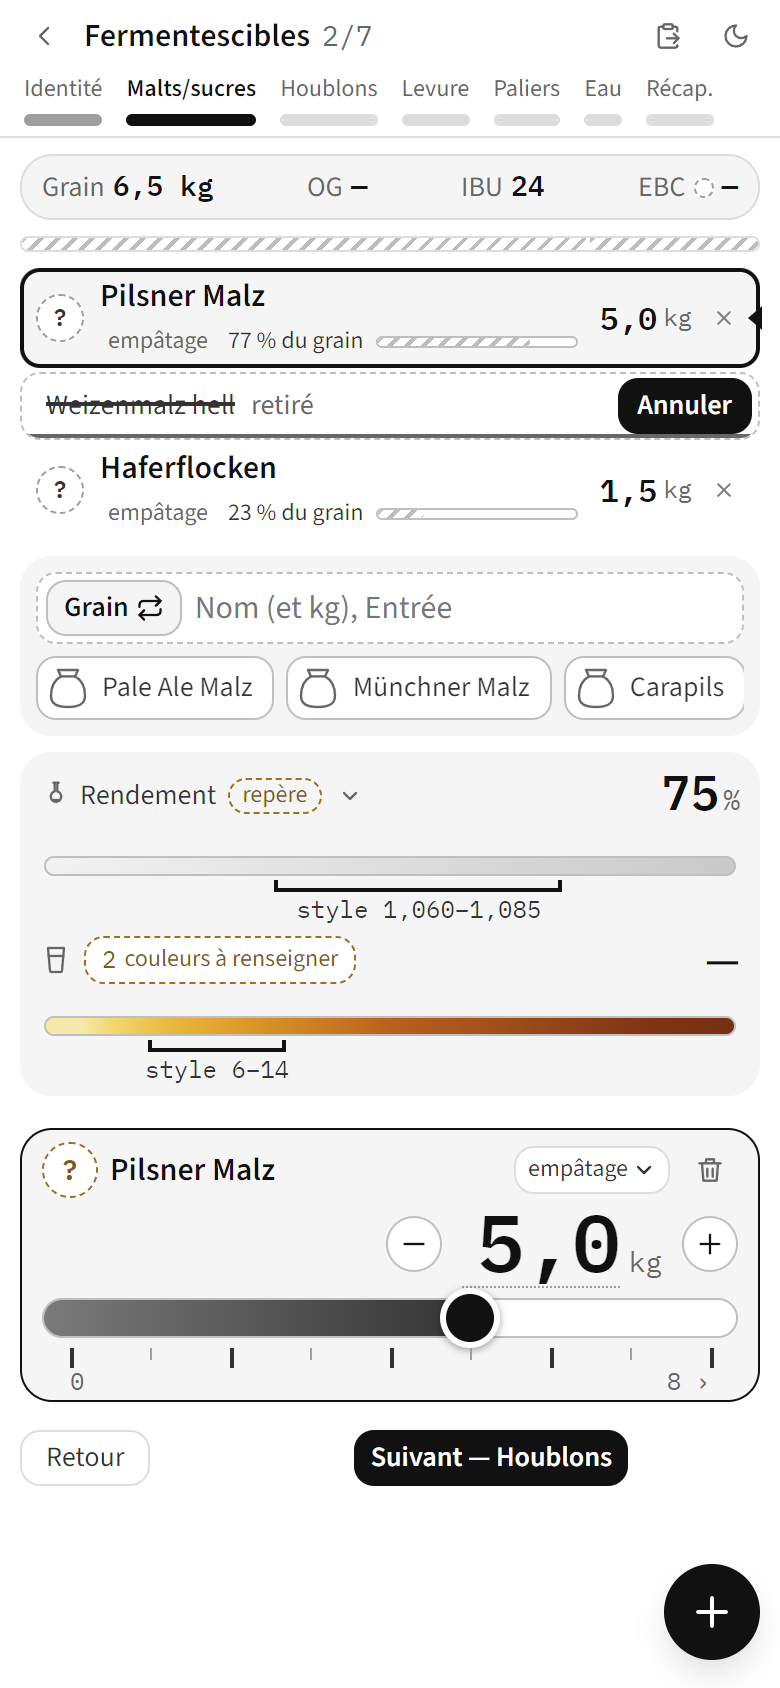
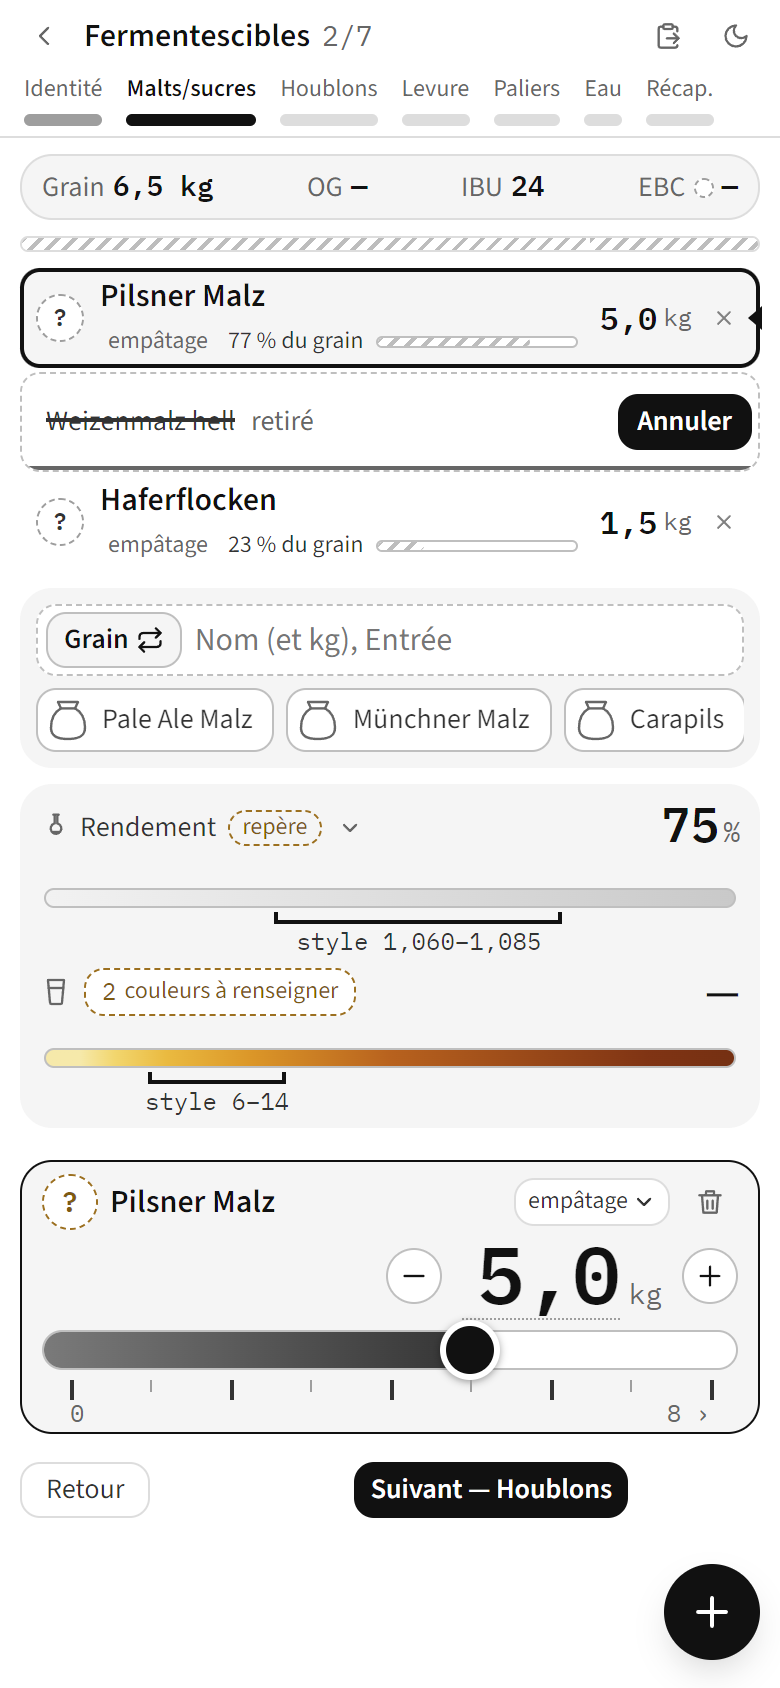
Malts/sucres : ligne retirée à la hauteur d'une ligne (t4 n° 2, plus de saut), page de la passe 4 publiée (r4c et r4d, plateau visible ou replié, coûts écrits)

diff --git a/work/missions/2026-10-31-ecran-fermentescibles/choix-v3/index.html b/work/missions/2026-10-31-ecran-fermentescibles/choix-v3/index.html
@@ -1,0 +1,143 @@
+<title>Malts/sucres · passe 4 · 31.10</title>
+<meta name="claude:viewport-fit-sides" content="cover">
+<style>
+/* La passe 4 de Malts/sucres : r4d, sa balance r4c avec les gestes sur la ligne. Une rangée par question, le nom à gauche ; la référence d'abord,
+   puis les vignettes serrées ; chaque vignette s'ouvre en grand au toucher (PUBLIER.md, D126). Polices système seules. */
+:root {
+  --fond: #f4f6f1;
+  --carte: #ffffff;
+  --encre: #1c2019;
+  --discret: #5a6155;
+  --trait: #dde2d6;
+  --houblon: #4a7426;
+  --choisir: #2d5f8a;
+  --reserve: #8a6a10;
+}
+@media (prefers-color-scheme: dark) {
+  :root:not([data-theme="light"]) {
+    --fond: #151812; --carte: #1f241b; --encre: #e9eee4; --discret: #a7ae9f; --trait: #333a2d; --houblon: #8cc062;
+    --choisir: #8ab8e0; --reserve: #e3c26a; color-scheme: dark;
+  }
+}
+:root[data-theme="dark"] {
+  --fond: #151812; --carte: #1f241b; --encre: #e9eee4; --discret: #a7ae9f; --trait: #333a2d; --houblon: #8cc062;
+  --choisir: #8ab8e0; --reserve: #e3c26a; color-scheme: dark;
+}
+* { box-sizing: border-box; }
+body {
+  background: var(--fond); color: var(--encre); font: 16px/1.45 "Segoe UI", system-ui, sans-serif; margin: 0;
+  padding-block: 16px 64px;
+  padding-left: max(16px, env(safe-area-inset-left, 0px)); padding-right: max(16px, env(safe-area-inset-right, 0px));
+}
+.page { max-width: 1320px; margin: 0 auto; display: grid; gap: 22px; }
+h1, h2 { margin: 0; line-height: 1.15; text-wrap: balance; }
+h1 { font-size: 1.7rem; font-weight: 800; }
+h2 { font-size: 1.1rem; font-weight: 800; }
+p { margin: 0; max-width: 70ch; }
+a { color: var(--houblon); }
+button:focus-visible { outline: 3px solid var(--houblon); outline-offset: 2px; }
+header { display: grid; gap: 10px; }
+.sur-titre { font-size: 0.875rem; letter-spacing: 0.06em; text-transform: uppercase; color: var(--discret); }
+#a-choisir { border-left: 4px solid var(--houblon); padding: 12px 14px; background: var(--carte); border-radius: 0 10px 10px 0; display: grid; gap: 6px; }
+#a-choisir p:first-child { font-size: 1.05rem; font-weight: 700; }
+.rangee { display: grid; gap: 10px; padding-top: 16px; border-top: 1px solid var(--trait); }
+.tete { display: grid; gap: 4px; align-content: start; }
+.tete p { font-size: 0.875rem; color: var(--discret); }
+.planche { display: grid; grid-template-columns: repeat(3, minmax(0, 1fr)); gap: 14px 8px; align-items: start; min-width: 0; }
+.vue { margin: 0; display: grid; gap: 5px; align-content: start; min-width: 0; }
+.ecran { display: block; width: 100%; padding: 0; border: 1px solid var(--trait); border-radius: 10px; overflow: hidden; background: var(--carte); cursor: zoom-in; }
+.ecran img { display: block; width: 100%; height: auto; }
+.ref .ecran { border: 3px solid var(--houblon); }
+figcaption { font-size: 0.875rem; line-height: 1.35; display: grid; gap: 2px; }
+figcaption b { font-weight: 800; }
+figcaption i { color: var(--discret); }
+.pastille { display: inline-flex; align-items: center; gap: 5px; font-weight: 700; }
+.pastille::before { content: ""; width: 10px; height: 10px; border-radius: 50%; background: currentColor; flex-shrink: 0; }
+.p-ref { color: var(--houblon); }
+.p-choisir { color: var(--choisir); }
+.p-reserve { color: var(--reserve); }
+.large { grid-column: span 2; }
+@media (min-width: 760px) {
+  .rangee { grid-template-columns: 200px minmax(0, 1fr); gap: 16px; }
+  .planche { grid-template-columns: repeat(6, minmax(0, 1fr)); }
+}
+dialog { border: 0; padding: 0; background: #0e100c; color: #eef2ea; width: min(96vw, 1100px); max-height: 94vh; border-radius: 12px; }
+dialog::backdrop { background: rgb(0 0 0 / 80%); }
+dialog .haut { display: flex; justify-content: space-between; align-items: center; gap: 8px; padding: 10px 12px; }
+dialog .titre { font-size: 0.875rem; font-weight: 700; margin: 0; }
+dialog button { font: 700 0.875rem system-ui, sans-serif; border: 0; border-radius: 999px; padding: 8px 14px; background: #eef2ea; color: #1c2019; cursor: pointer; }
+dialog img { display: block; width: 100%; height: auto; max-height: 82vh; object-fit: contain; background: #fff; }
+</style>
+
+<div class="page">
+  <header>
+    <p class="sur-titre">L'Affinée · création de recette · Malts/sucres 2/7</p>
+    <h1>Malts/sucres · passe 4 · 31.10</h1>
+    <div id="a-choisir">
+      <p>Ta balance r4c, avec tes gestes sur la ligne : la masse se tape sur la ligne, la croix retire, le champ ajoute, le nom ouvre le détail.</p>
+      <p>Dis si ça te va. Puis choisis le plateau : toujours visible, ou replié jusqu'au toucher d'un nom.</p>
+      <p>Le reste de r4c ne change pas : plateau clair, sucre en ligne du ticket, teinte en dégradé, OG en piste. Touche une capture pour la voir en grand.</p>
+    </div>
+    <p class="sur-titre">Version d'avant : <a href="https://claude.ai/artifact/2bBQ7dcRjwnyGfbUgf7vUG">la passe 3 (r4c, z2c, u2c)</a></p>
+  </header>
+
+  <section class="rangee" aria-labelledby="t-plateau">
+    <div class="tete"><h2 id="t-plateau">Le plateau</h2><p>Ce que tu choisis. Ta r4c d'abord, puis les deux façons de r4d.</p></div>
+    <div class="planche">
+      <figure class="vue ref" data-vignette><button class="ecran" type="button" data-agrandir data-src="img/r4c-repos.png" data-titre="Référence · r4c, ton choix, au repos"><img src="img/r4c-repos.png" alt="r4c au repos"></button><figcaption><span class="pastille p-ref">ton choix</span><span><b>La balance</b> · r4c</span><i>Changer passe par le plateau.</i></figcaption></figure>
+      <figure class="vue" data-vignette><button class="ecran" type="button" data-agrandir data-src="img/r4d-repos.png" data-titre="r4d · plateau visible, au repos"><img src="img/r4d-repos.png" alt="r4d, plateau visible"></button><figcaption><span class="pastille p-choisir">à choisir</span><span><b>Plateau visible</b> · r4d</span><i>Sous la liste, sur l'ingrédient choisi.</i></figcaption></figure>
+      <figure class="vue" data-vignette><button class="ecran" type="button" data-agrandir data-src="img/r4d-replie.png" data-titre="r4d · plateau replié, au repos"><img src="img/r4d-replie.png" alt="r4d, plateau replié"></button><figcaption><span class="pastille p-choisir">à choisir</span><span><b>Plateau replié</b> · r4d</span><i>Rien sous la liste au repos.</i><i>Coût : à 3 lignes, du vide sous le pied.</i></figcaption></figure>
+      <figure class="vue" data-vignette><button class="ecran" type="button" data-agrandir data-src="img/r4d-detail.png" data-titre="r4d · plateau replié, nom touché : le détail s'ouvre"><img src="img/r4d-detail.png" alt="r4d, détail ouvert"></button><figcaption><span><b>Replié, nom touché</b></span><i>Le détail s'ouvre, × le referme.</i><i>Coût : il s'ouvre en bas, loin de la ligne.</i></figcaption></figure>
+    </div>
+  </section>
+
+  <section class="rangee" aria-labelledby="t-masse">
+    <div class="tete"><h2 id="t-masse">Modifier une masse</h2><p>Un toucher sur le chiffre, tu tapes, Entrée. Échap rend la valeur d'avant.</p></div>
+    <div class="planche">
+      <figure class="vue" data-vignette><button class="ecran" type="button" data-agrandir data-src="img/r4d-repos.png" data-titre="Masse · avant : Weizenmalz hell à 1,5 kg"><img src="img/r4d-repos.png" alt="Avant"></button><figcaption><span><b>Avant</b></span><i>Weizenmalz hell, 1,5 kg.</i></figcaption></figure>
+      <figure class="vue" data-vignette><button class="ecran" type="button" data-agrandir data-src="img/r4d-masse-pendant.png" data-titre="Masse · pendant : « 2,5 » tapé sur la ligne"><img src="img/r4d-masse-pendant.png" alt="Pendant"></button><figcaption><span><b>Pendant</b></span><i>Le total et les parts suivent.</i></figcaption></figure>
+      <figure class="vue" data-vignette><button class="ecran" type="button" data-agrandir data-src="img/r4d-masse-apres.png" data-titre="Masse · après Entrée : 2,5 kg"><img src="img/r4d-masse-apres.png" alt="Après"></button><figcaption><span><b>Après</b></span><i>2,5 kg, grain 9,0 kg.</i></figcaption></figure>
+    </div>
+  </section>
+
+  <section class="rangee" aria-labelledby="t-retrait">
+    <div class="tete"><h2 id="t-retrait">Retirer, ajouter</h2><p>La croix retire sans question ; « Annuler » reste 6 secondes.</p></div>
+    <div class="planche">
+      <figure class="vue" data-vignette><button class="ecran" type="button" data-agrandir data-src="img/r4d-retrait-apres.png" data-titre="Retrait · Weizenmalz hell retiré, Annuler à sa place"><img src="img/r4d-retrait-apres.png" alt="Retrait"></button><figcaption><span><b>Retiré</b></span><i>« Annuler » le rend à sa place.</i></figcaption></figure>
+      <figure class="vue" data-vignette><button class="ecran" type="button" data-agrandir data-src="img/r4d-ajout-apres.png" data-titre="Ajout · « Cara 0,3 » puis « Munich » : le curseur dans sa masse"><img src="img/r4d-ajout-apres.png" alt="Ajout"></button><figcaption><span><b>Ajouté</b></span><i>« Cara 0,3 », puis « Munich » : curseur dans sa masse.</i></figcaption></figure>
+    </div>
+  </section>
+
+  <section class="rangee" aria-labelledby="t-ordi">
+    <div class="tete"><h2 id="t-ordi">Ordinateur</h2><p>1280 px. Tab passe d'une masse à la suivante.</p></div>
+    <div class="planche">
+      <figure class="vue ref large" data-vignette><button class="ecran" type="button" data-agrandir data-src="img/r4c-1280.png" data-titre="Référence · r4c à 1280 px"><img src="img/r4c-1280.png" alt="r4c à 1280 px"></button><figcaption><span class="pastille p-ref">ton choix</span><span><b>La balance</b> · r4c</span></figcaption></figure>
+      <figure class="vue large" data-vignette><button class="ecran" type="button" data-agrandir data-src="img/r4d-1280.png" data-titre="r4d à 1280 px"><img src="img/r4d-1280.png" alt="r4d à 1280 px"></button><figcaption><span><b>Gestes sur la ligne</b> · r4d</span></figcaption></figure>
+    </div>
+  </section>
+</div>
+<dialog id="grand" aria-label="Capture en grand">
+  <div class="haut">
+    <p class="titre" id="grand-titre"></p>
+    <button type="button" class="fermer">Fermer</button>
+  </div>
+  <img id="grand-img" alt="">
+</dialog>
+
+<script>
+(function () {
+  var dlg = document.getElementById('grand');
+  var img = document.getElementById('grand-img');
+  var titre = document.getElementById('grand-titre');
+  document.querySelectorAll('[data-agrandir]').forEach(function (b) {
+    b.addEventListener('click', function () {
+      img.setAttribute('src', b.getAttribute('data-src'));
+      img.setAttribute('alt', b.getAttribute('data-titre'));
+      titre.textContent = b.getAttribute('data-titre');
+      dlg.showModal();
+    });
+  });
+  dlg.querySelector('.fermer').addEventListener('click', function () { dlg.close(); });
+  dlg.addEventListener('click', function (e) { if (e.target === dlg) dlg.close(); });
+})();
+</script>

diff --git a/work/missions/2026-10-31-ecran-fermentescibles/v3/r4d/etat.html b/work/missions/2026-10-31-ecran-fermentescibles/v3/r4d/etat.html
@@ -97,8 +97,9 @@ body:not(.r4b-ample) .r4b-tag,body:not(.r4b-ample) .r4b-mo{line-height:16px}
 .r4d-ret:hover{color:var(--t0);background:var(--haut)}
 .r4d-ret:active{transform:scale(.88)}
 /* Le retrait laisse sa place 6 s : le nom barré, « Annuler » sous le doigt, là où était le ×. */
-.r4d-ote{position:relative;display:flex;align-items:center;gap:8px;min-height:34px;margin-top:2px;padding:0 3px 0 12px;border:1px dashed var(--bordm);border-radius:10px;font-size:14px;color:var(--t2);overflow:hidden;list-style:none}
+.r4d-ote{position:relative;display:flex;align-items:center;gap:8px;min-height:50px;margin-top:2px;padding:0 3px 0 12px;border:1px dashed var(--bordm);border-radius:10px;font-size:14px;color:var(--t2);overflow:hidden;list-style:none}
 .r4d-ote s{color:var(--t1);text-decoration-thickness:1.5px;white-space:nowrap;flex-shrink:0}
+body:not(.r4b-ample) .r4d-ote{min-height:40px}
 .r4d-ann{margin-left:auto;height:28px;padding:0 10px;border-radius:10px;background:var(--t0);color:#fff!important;font-size:14px;font-weight:600;flex-shrink:0}
 .r4d-ann:active{transform:scale(.96)}
 .r4d-file{position:absolute;left:0;bottom:0;width:100%;height:2px;background:var(--t2);transform-origin:left;animation:r4d-file 6s linear forwards}

diff --git a/work/missions/2026-10-31-ecran-fermentescibles/MISSION.md b/work/missions/2026-10-31-ecran-fermentescibles/MISSION.md
@@ -43,6 +43,7 @@ Ses mots vont mot pour mot dans SPEC-BRASSEUR.md, une plainte va dans DEFAUTS-RE
 |---|---|---|---|
 | Malts/sucres · panel v0 (12 concepts) | 31.10 v1 | https://claude.ai/artifact/Hn6WHBqAAEzV7UuJj9qCoh | `work/missions/2026-10-31-ecran-fermentescibles/panel-v0.html` |
 | Malts/sucres · passe 3 (r4c, z2c, u2c) et ses axes | 31.10 v1 | https://claude.ai/artifact/2bBQ7dcRjwnyGfbUgf7vUG | `work/missions/2026-10-31-ecran-fermentescibles/choix-v2/index.html` |
+| Malts/sucres · passe 4 (r4c et r4d, gestes sur la ligne, plateau visible ou replié) | 31.10 v1 | https://claude.ai/artifact/9TYpaMsGrfuBYYMPUf8XeU | `work/missions/2026-10-31-ecran-fermentescibles/choix-v3/index.html` |
 
 ## Sources
 - `src/pages/BrewWizard.tsx` (étape `fermentescibles`, l. 437 ; `fermentables`, l. 660)
@@ -82,3 +83,9 @@ Ses mots vont mot pour mot dans SPEC-BRASSEUR.md, une plainte va dans DEFAUTS-RE
   i1 à t3 ont tourné sans dossier `voies/` (D204, économie), seule p4 en a un ; écart connu, pas un défaut de p4.
   **Le critique t4 est en vol** (`critique/VERDICT-v3.md`). Ensuite : la page de la passe 4 (r4c et r4d côte à côte, gestes repos /
   pendant / après, les deux états du plateau), un artefact neuf.
+- 31.10, nuit : t4 rend **PRÊT À MONTRER** (0 bloquant, 5 détails, `critique/VERDICT-v3.md`). Le n° 2 est corrigé par le pilote : la
+  ligne retirée garde la hauteur d'une ligne (50 px, 40 en dense) ; mesuré, Haferflocken 242 → 240 px au retrait (avant : un saut de
+  liste). Les n° 3 (vide sous le pied, replié à 3 lignes) et n° 4 (détail en bas) sont écrits en coût sous l'option repliée de la page ;
+  n° 1, n° 5 et Q4 : rien à faire avant ses mots. Page de la passe 4 publiée (PAGE OK, captures ouvertes), table « Pages ».
+  **Attend son verdict** : r4d lui va-t-elle, et quel plateau (visible ou replié). Ensuite : Malts dans `ecrans-app.json`, puis le port
+  (avec l'alias « Munich » → « Münchner Malz », vu sur r4d : le champ crée une ligne au lieu de proposer la fiche existante).
